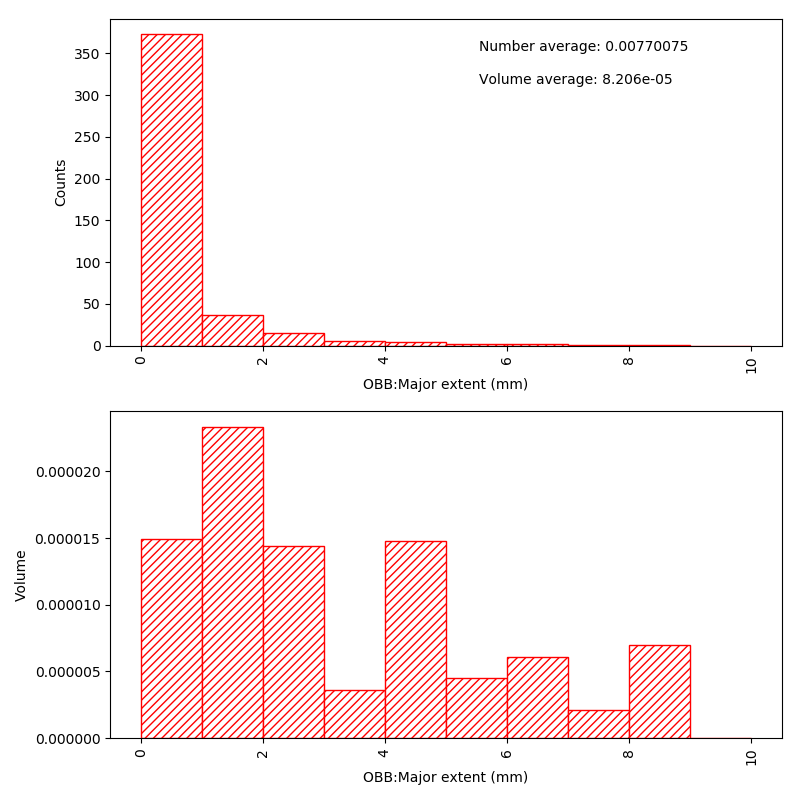
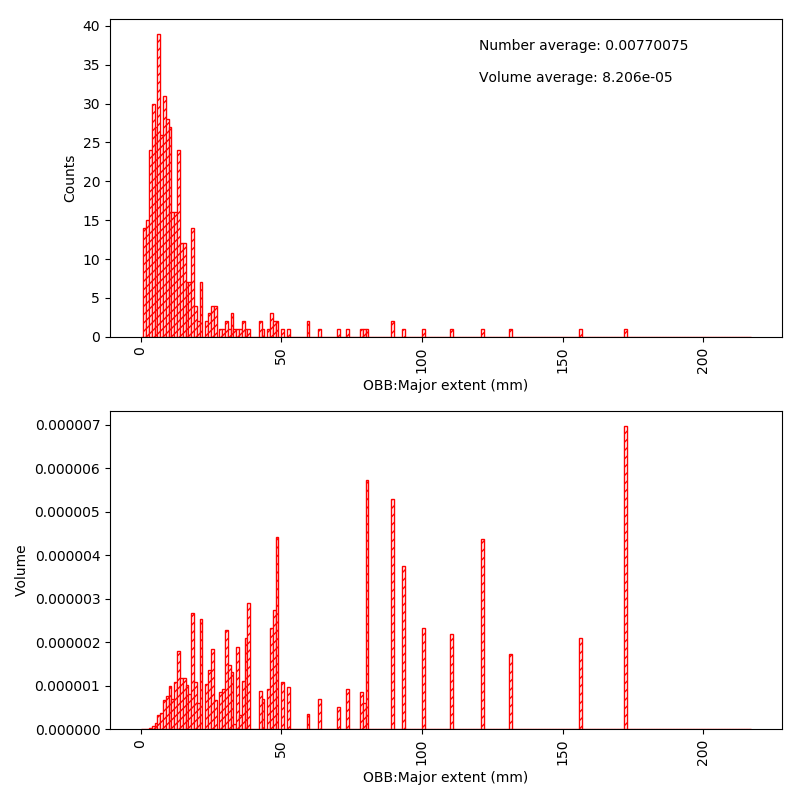
testupload - plots broken

diff --git a/pyPSD.py b/pyPSD.py
@@ -26,7 +26,7 @@ class voldist(object):
         self.extstr = strs[ext_col_idx]
         extent = dat[:, ext_col_idx]  # formats primary data and volume columns
 
-        self.counts, self.realbins = np.histogram(extent, bins=bin_edges)   [1]
+        self.counts, self.realbins = np.histogram(extent, bins=bin_edges) # [1]
 
         self.numavg = sum(extent) / len(extent)  #                          [0]
 
@@ -38,10 +38,10 @@ class voldist(object):
 
       # volbinfracsums = volbinsums / sum(volume)  #                        [0]
         volfrac = volume / sum(volume)  #                                   [0]
-    #    if typ == (0,0):
-        self.volavg = sum(extent * volfrac) / len(extent)  #            [3] Weighted
-      #  else:
-       #     self.volavg = sum(extent**typ[0])/sum(extent**typ[1])
+        if typ == (0,0):
+            self.volavg = sum(extent * volfrac) / len(extent)  #            [3] Weighted
+        else:
+            self.volavg = sum(extent**typ[0])/sum(extent**typ[1])
         
         
         self.navgstr = 'Number average: ' + str(float('%.8f'%(self.numavg)))
@@ -60,7 +60,7 @@ class voldist(object):
 
         def subhistplots(num, xvals, yvals, xstr, ystr):
             plt.subplot(2, 1, num)
-            plt.bar(self.binlabels, yvals,
+            plt.bar(xvals, yvals,
                     width=1, color='white', linewidth=1, edgecolor='red',
                     hatch='////', align='edge')
             plt.xlabel(ystr)
@@ -173,7 +173,6 @@ def get_bins():
 
 def promptdatcol():
     ext_col_strs = 'Select the data column:\n' + '\n'.join(dat_prompt_strs)
-    #ext_col_idx = input(ext_col_strs)
     ext_col_idx = input(ext_col_strs)
     if ',' not in ext_col_idx:
         ext_col_idx = int(ext_col_idx)-1
@@ -214,7 +213,7 @@ print(color('\n\nYou chose: ', 'green') + strs[vol_col_idx] + '\n')
 # %% Main Loop
 
 idx = 0
-typ = (3,2) 
+typ = (0,0) 
     # Specifiy method of determining volume average:
     # (Leave blank to calculate weighted average)
     # Fill in according to D[x,y] parameter
